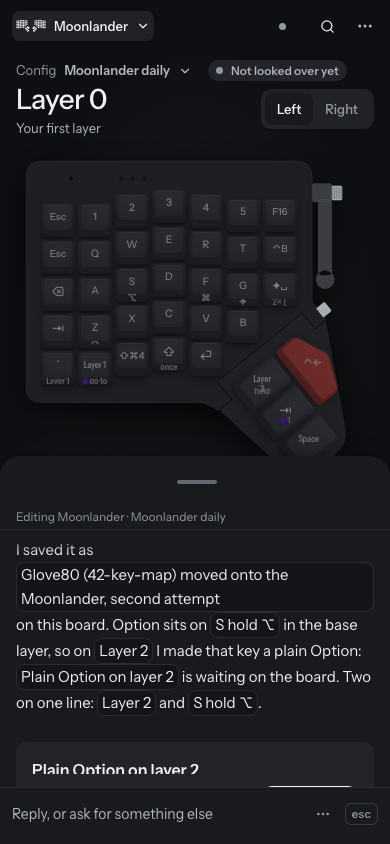
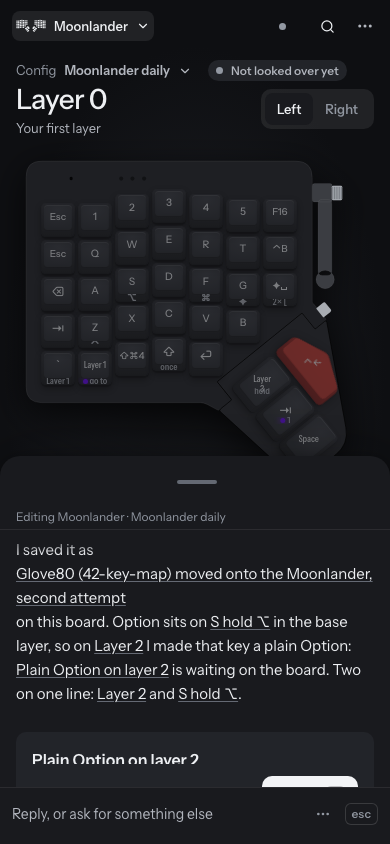
docs: recapture the reply references as links
The captures and figures for the link look: no box at rest, the sentence's colour and
font, a 1px underline, one line tall, the long config name wrapping inside the
paragraph, and the focus fill and ring the keyboard check activates. Records why the
gate checks the effect rather than `display: inline` (Chrome computes a button as an
inline-block) and corrects the blueprint wording from chip to link.

diff --git a/docs/research/ui-audit/c-reply-references/README.md b/docs/research/ui-audit/c-reply-references/README.md
@@ -1,33 +1,39 @@
 # A reply takes you to what it names
 
-Checked source: `e397c4b89b2a56a2bbf92bb2734cfbea26d055af`, tree `6fea9e9d8fae922a0b80f953e9f99869583b5e26`, on `86bd8f6` (v0.64.0), the C candidate. That commit is code and tests; this file and the captures are the documentation commit that follows it, which changes no code, so the code under test is byte-identical to that tree. The app ran from `C-shots.ts`, kept beside this run's ledger rather than in the repository: the real server routes and SQLite in a scratch data directory, with a scripted Anthropic client behind the real SDK, and routes that refuse builds and flashes. No model was called, no network was used, no keyboard was touched. The config is the checked-in Oryx Moonlander fixture (`test/fixtures/oryx/synchronized`); the second config the reply names is a plain copy of it with a long name.
+Checked source: `d82fe94a2b5144854b27733f20a70f4bca2a73e2`, tree `cd68f1cf1d858a1a64ad4b6403141a2e0bc02017`, on `6454cc4` (v0.64.0 plus a docs-only commit) — the last commit of this stage that changes code: the marker contract, its tests and the link styling review asked for. The documentation commit that follows changes no code, so the code under test is byte-identical to that tree. The app ran from `C-shots.ts`, kept beside this run's ledger rather than in the repository: the real server routes and SQLite in a scratch data directory, with a scripted Anthropic client behind the real SDK, and routes that refuse builds and flashes. No model was called, no network was used, no keyboard was touched. The config is the checked-in Oryx Moonlander fixture (`test/fixtures/oryx/synchronized`); the second config the reply names is a plain copy of it with a long name.
 
 The reply was written by that scripted model in a real chat turn, so the conversation, its proposal and its stored text are what `keyloom chat` and the page would see:
 
-> I saved it as **Glove80 (42-key-map) moved onto the Moonlander, second attempt** on this board. Option sits on **S hold ⌥** in the base layer, so on **Layer 2** I made that key a plain Option: **Plain Option on layer 2** is waiting on the board. Two on one line: **Layer 2** and **S hold ⌥**.
+> I saved it as Glove80 (42-key-map) moved onto the Moonlander, second attempt on this board. Option sits on S hold ⌥ in the base layer, so on Layer 2 I made that key a plain Option: Plain Option on layer 2 is waiting on the board. Two on one line: Layer 2 and S hold ⌥.
 
-Bold here is a chip on screen: the four markers are `{config:lay_…}`, `{key:layer-0:30}`, `{layer:layer-2}` and `{proposal:cs_…}`, and each one drew the name the page resolved. No marker text reaches the page.
+Underlined here is a reference on screen: the four markers are `{config:lay_…}`, `{key:layer-0:30}`, `{layer:layer-2}` and `{proposal:cs_…}`, and each one drew the name the page resolved. No marker text reaches the page.
+
+## A reference reads as a link inside the sentence
+
+A name the page resolved is not a box. At rest it has no border, no fill and no padding, it takes the paragraph's own colour and font, and it carries a 1px underline set 2px below the text — so a sentence that names a config, a layer, a key and a proposal still reads as a sentence, and a long config name is a long underlined name rather than a grey block. Hover and focus give it the quiet fill (`--color-accent-bg`) and the underline takes the text colour; focus keeps the visible ring the rest of the app uses (`2px` `--color-focus`, offset `2px`). The element stays a `<button>`, so Tab reaches it and Enter activates it with no code of its own, and it keeps its `title`.
+
+A `<button>` is computed as an atomic inline by Chrome even with `display: inline` (a bare page with the same declarations reports `inline-block` on Chrome 156, which is the HTML rendering model for the element, not a cascade failure). The gate therefore checks what has to be true rather than the keyword: the name is an inline-level box with no box of its own, exactly one line tall for a short name, underlined, in the sentence's colour — and a long one wraps inside the paragraph.
 
 ## Both themes fit desktop and phone viewports
 
 | Viewport in CSS pixels | Theme | Evidence |
 |---|---|---|
-| 1440 × 900 | Light | [The reply and its chips](reply-light-1440x900.png), [after Enter on the key chip](key-pulse-light-1440x900.png), [after Enter on the config chip](config-opened-light-1440x900.png) |
-| 1440 × 900 | Dark | [The reply and its chips](reply-dark-1440x900.png) |
-| 390 × 844 | Light | [The reply and its chips](reply-light-390x844.png), [after Enter on the key chip](key-pulse-light-390x844.png), [after Enter on the config chip](config-opened-light-390x844.png) |
-| 390 × 844 | Dark | [The reply and its chips](reply-dark-390x844.png), [after Enter on the key chip](key-pulse-dark-390x844.png), [after Enter on the config chip](config-opened-dark-390x844.png) |
+| 1440 × 900 | Light | [The reply and its references](reply-light-1440x900.png), [after Enter on the key reference](key-pulse-light-1440x900.png), [after Enter on the config reference](config-opened-light-1440x900.png) |
+| 1440 × 900 | Dark | [The reply and its references](reply-dark-1440x900.png) |
+| 390 × 844 | Light | [The reply and its references](reply-light-390x844.png), [after Enter on the key reference](key-pulse-light-390x844.png), [after Enter on the config reference](config-opened-light-390x844.png) |
+| 390 × 844 | Dark | [The reply and its references](reply-dark-390x844.png), [after Enter on the key reference](key-pulse-dark-390x844.png), [after Enter on the config reference](config-opened-dark-390x844.png) |
 
 Captures are page captures from headless Chrome at device pixel ratio 1, with no browser chrome and no resizing. The phone shot is the chat bottom sheet rested on the reply rather than on the proposal card below it, because the reply is what this gate is about.
 
-The chips sit inside the sentence as inline boxes, not as a row of buttons: they share the paragraph's 24-pixel line, they wrap with it, and they break a long name instead of widening the reply. Measured facts (`capture-notes.txt`): the page does not scroll sideways at either width (`scrollWidth == clientWidth`), the prose column is 428 pixels on the desktop and 358 on the phone, a one-line chip is 26 pixels tall against the 24-pixel line, and the 62-character config name is one chip 50 pixels tall wrapping over two lines. Two chips share a line at both widths ("Two on one line: Layer 2 and S hold ⌥").
+Measured facts (`capture-notes.txt`, identical at both widths and themes): the page does not scroll sideways (`scrollWidth == clientWidth`); the prose column is 428 pixels on the desktop and 358 on the phone against a 24-pixel line; all six references are inline-level with `0` padding, `0` border, a transparent fill and the paragraph's own colour; a short name is 24 pixels tall, exactly the line, so a reference never adds a line of its own; the 62-character config name is 428 (358) pixels wide and 48 pixels tall, two lines, with its right edge exactly at the paragraph's; and four names share a line on the desktop, two on the phone ("Two on one line: Layer 2 and S hold ⌥").
 
-The card below the reply is the existing proposal card, unchanged; the reply's own chip for it is in the sentence above. This gate is [the design concept](../../../blueprint/23-design-concept.md) plus [the screenshot gate](../../../blueprint/18-visual-design.md#how-a-rung-proves-it-looks-good); no new visual system was added — the chip borrows the card surface's panel and hairline.
+The card below the reply is the existing proposal card, unchanged; the reply's own reference to it is in the sentence above. This gate is [the design concept](../../../blueprint/23-design-concept.md) plus [the screenshot gate](../../../blueprint/18-visual-design.md#how-a-rung-proves-it-looks-good); no new visual system was added — the link borrows the app's existing underline, fill and focus ring.
 
-## Tab reaches every chip, and Enter does what the chip says
+## Tab reaches every reference, and Enter does what it says
 
-From the conversation log, Tab walks the chips in reading order and each takes the focus ring visible in the captures: config, key, layer, proposal (the second pair of layer and key chips repeats). With the chip focused, Enter activated it, in all four viewport and theme combinations:
+From the conversation log, Tab walks the references in reading order and each takes the focus fill and ring visible in the captures: config, key, layer, proposal (the second pair of layer and key references repeats). With the reference focused, Enter activated it, in all four viewport and theme combinations:
 
-| Chip | Before Enter | After Enter |
+| Reference | Before Enter | After Enter |
 |---|---|---|
 | `{layer:layer-2}` | the layer strip on Layer 0 | the strip on Layer 2 |
 | `{key:layer-0:30}` | the strip on Layer 2 | the strip on Layer 0, and the S key ringed on the board (1400 ms) |
@@ -36,7 +42,11 @@ From the conversation log, Tab walks the chips in reading order and each takes t
 
 Chrome's DevTools protocol only activates a button when the Enter keystroke carries its character; without it the keydown arrives and no click follows, which is a property of the harness, not of the page (the same finding the copy card's gate recorded for `<summary>`).
 
-The config shot is the last one taken, because the page moves: the reply travels with the thread and is shown read-only under "Earlier, about Moonlander daily on your Moonlander". There the config marker is still live and the layer, key and proposal markers read as words ("that layer", "that key", "that proposal"), because those belong to a layout that is not on screen; the chip for the other config is the one worth keeping live in a carried thread.
+The config shot is the last one taken, because the page moves: the reply travels with the thread and is shown read-only under "Earlier, about Moonlander daily on your Moonlander". There the config reference is still live and the layer, key and proposal references read as words ("that layer", "that key", "that proposal"), because those belong to a layout that is not on screen; the reference to the other config is the one worth keeping live in a carried thread.
+
+## What the run fails on
+
+Every capture run checks thirteen things in each of the four combinations and exits non-zero if any fails: six names drawn; an inline-level box with no padding, border or fill; the paragraph's colour; one line tall for a short name; a 1px underline; the long name wrapping inside the paragraph; two names sharing a line; no sideways scroll; Tab reaching all four kinds; and each of the four activations above.
 
 ## What this does not prove
 

diff --git a/docs/blueprint/14-decision-log.md b/docs/blueprint/14-decision-log.md
@@ -2188,10 +2188,10 @@ The reply that made a config told BK where to find it, and a later reply that na
 
 - **One family, four kinds, ids not names.** `{config:<config id>}`, `{proposal:<change set id>}`, `{layer:<layer id>}`, `{key:<layer id>:<position>}`. The marker carries an id and never a name, a URL or a scheme, so nothing the model writes can become a link, an anchor, HTML, JSX or CSS (D-404). Grammar and the reading rule are one pure module, `src/layout/references.ts`: three layers read it and none of them may import another's folder. A string that is not a marker — an unknown kind, a name, a key with no position, a brace that never closes, an id longer than any real one — stays exactly as the model wrote it.
 - **The stored text keeps the markers.** Nothing rewrites a stored message (`src/persistence/conversations.ts`); no sanitiser pass runs over assistant text. Each client parses where it renders, which is why the marker stays short: an older client shows the marker itself rather than losing the sentence.
-- **Resolved by the client, with a words fallback.** A marker that names something live becomes the thing's own name; one that names nothing becomes plain words, never a dead chip. Where no name exists the words are the id the marker carried (a deleted config, a proposal this conversation does not hold, a layer gone after a head change), and a proposal that is no longer waiting reads as its title with where it stands (`applied`, `superseded`, `rejected`). A key whose position is past the layer's keys reads `key 73 on Base`, as the review's cleaner already wrote it.
-- **Each kind does one thing, through a seam that exists.** Config → the config opener that already carries the thread (D-317, D-336); the config already on screen reads as words, so the page never reloads onto itself. Proposal → the reply's own card, or the conversation's, pinned on the board (D-452). Layer → the layer switch the layer strip uses, which keeps an open key's draft (D-317). Key → that layer switch and then the pulse a real key press lights, so the key is found in place; the key panel does not open and the composer's selection does not change. A chip only exists when its action does.
+- **Resolved by the client, with a words fallback.** A marker that names something live becomes the thing's own name; one that names nothing becomes plain words, never a dead link. Where no name exists the words are the id the marker carried (a deleted config, a proposal this conversation does not hold, a layer gone after a head change), and a proposal that is no longer waiting reads as its title with where it stands (`applied`, `superseded`, `rejected`). A key whose position is past the layer's keys reads `key 73 on Base`, as the review's cleaner already wrote it.
+- **Each kind does one thing, through a seam that exists.** Config → the config opener that already carries the thread (D-317, D-336); the config already on screen reads as words, so the page never reloads onto itself. Proposal → the reply's own card, or the conversation's, pinned on the board (D-452). Layer → the layer switch the layer strip uses, which keeps an open key's draft (D-317). Key → that layer switch and then the pulse a real key press lights, so the key is found in place; the key panel does not open and the composer's selection does not change. A name is only a link when its action exists.
 - **A carried read-only thread keeps only its config marker live.** Its layers, keys and proposals belong to a layout that is not on screen: pinning one would preview another config's change on this board. Opening a config it names is exactly what the thread's config cards already offer. Those markers read as words ("that layer", "that key", "that proposal") rather than as ids, because they name things that exist and the page simply cannot draw them; a thread handed back to the config it is about (D-317 keeps `from`) resolves everything again.
-- **Markdown-lite grows one inline kind.** `src/web/chat/markdown.ts` parses `reference` after inline code, so a marker in backticks stays literal, and bold keeps a marker inside it as a reference. The component builds a `<button>`, never an `<a href>` and never `dangerouslySetInnerHTML`, and the chip sits inside the sentence as an inline box that wraps: two markers on one line at phone width and a long config name break like words.
+- **Markdown-lite grows one inline kind.** `src/web/chat/markdown.ts` parses `reference` after inline code, so a marker in backticks stays literal, and bold keeps a marker inside it as a reference. The component builds a `<button>`, never an `<a href>` and never `dangerouslySetInnerHTML`, and the name is drawn as a link inside the sentence: no border, fill or padding at rest, the sentence's own colour and font, a 1px underline, and the quiet fill plus the visible ring on hover and focus. It wraps like a word, so two names share a line at phone width and a long config name breaks inside the paragraph. Review corrected the first build, which drew a bordered chip per name: four of them in one sentence read as a form. A `<button>` is computed as an inline-block by Chrome even with `display: inline` (the HTML rendering model for the element), so what the screenshot gate checks is the effect — inline-level, no box of its own, one line tall, wrapping inside the paragraph — not the keyword. Labels, actions and fallbacks are unchanged.
 - **The terminal resolves and lists the routes.** `keyloom chat` writes the name on the stream and holds only an open `{` (at most 64 characters; an unclosed brace is printed as it came; a marker split across deltas reads once). After the reply, one line per reference that has a command — `to open it: keyloom config use <id>`, `to review it: keyloom change show <id>` — and nothing for a layer or a key, because the board is their surface and a terminal has nothing to run. Lookups are the ones that exist: the config list, the conversation's change sets, the head layout. `--format json` keeps `text` verbatim, markers included: a machine reader can resolve them and the stored reply is the same text.
 - **The prompt teaches four forms, briefly.** Config and layer ids from `list_layouts`/`get_layout`, positions from `get_layout`/`find_function`, a proposal's id from the `propose_changes` result or the conversation; write the marker where the name belongs and keep the noun; a marker naming nothing reads as words; never a URL, a link or HTML.
 - **Screens stay out.** History, the typing lab and Decisions have no marker, no client-intent protocol and no acknowledgement: rung 28's typed client intents (29) are a later stage, and this decision adds no wire field, no migration and no server behaviour.

diff --git a/docs/blueprint/28-agent-experience.md b/docs/blueprint/28-agent-experience.md
@@ -142,7 +142,7 @@ Options have proper labels and focus states. Recommendation is an explicit field
 | Cross-keyboard transfer | Source -> destination, mapped/skipped/uncertain items, loss explanations | Inspect source or target; resolve a target key in place |
 | Keyboard collection | Compact rows with silhouettes, configs and real connection/sync states | Open the selected board without applying anything |
 | Where a function lives | Key chips and layer-access path | Reveal and highlight the actual keys |
-| A config, proposal, layer or key a reply names | The thing's own name as a chip inside the sentence (D-468) | Opens the config with the thread, pins the proposal, shows the layer, pulses the key in its layer |
+| A config, proposal, layer or key a reply names | The thing's own name as a link inside the sentence (D-468) | Opens the config with the thread, pins the proposal, shows the layer, pulses the key in its layer |
 | Version or config comparison | Existing diff-on-board plus named non-key changes | Restore through the normal preview path |
 | Typing findings | Per-finger counts and evidence-backed suggestions | Existing lab findings only; no recorded text to the model |
 | Build or sync | Current step, device target and verification result | The existing sync engine, not invented percentages |
@@ -153,7 +153,7 @@ A config the agent makes (`put_config`, `create_config`) is the one result built
 
 The model supplies content and references, not HTML, JSX, CSS or runnable components. Large results show a summary and an inspectable list with counts. Unsupported features remain visible even if some keys transferred successfully (D-404).
 
-A reply that names a config, a proposal, a layer or a key carries a typed marker instead of the name (D-468): `{config:<id>}`, `{proposal:<id>}`, `{layer:<layerId>}`, `{key:<layerId>:<position>}`. The marker holds an id, so the model cannot inject HTML or a scheme, and the reply's stored text keeps the marker. The page parses it where it renders, after inline code (so a marker in backticks stays literal), and draws a chip the reply's own sentence carries: the config's name opens that config with this conversation along (the one on screen is words, so the page never reloads onto itself), the proposal's title pins that card on the board (one that was applied, superseded or rejected reads as its title and status, with no pin), the layer's name shows that layer, and a key's legend shows its layer and pulses the key. A marker that names nothing the page still holds, and a layer or key whose layout changed under the reply, read as plain words rather than a dead chip. In a carried read-only thread only a config it names stays live; its layers, keys and proposals belong to another layout, so they read as "that layer", "that key", "that proposal" — unless the thread has come back to the config it is about, when everything resolves again. Screens (History, the typing lab, Decisions) have no marker: rung 28's typed client intents are a later stage, and the markers carry no acknowledgement. Captures, keyboard proof and measurements: [c-reply-references](../research/ui-audit/c-reply-references/README.md).
+A reply that names a config, a proposal, a layer or a key carries a typed marker instead of the name (D-468): `{config:<id>}`, `{proposal:<id>}`, `{layer:<layerId>}`, `{key:<layerId>:<position>}`. The marker holds an id, so the model cannot inject HTML or a scheme, and the reply's stored text keeps the marker. The page parses it where it renders, after inline code (so a marker in backticks stays literal), and draws that name as a link inside the sentence: the config's name opens that config with this conversation along (the one on screen is words, so the page never reloads onto itself), the proposal's title pins that card on the board (one that was applied, superseded or rejected reads as its title and status, with no pin), the layer's name shows that layer, and a key's legend shows its layer and pulses the key. A marker that names nothing the page still holds, and a layer or key whose layout changed under the reply, read as plain words rather than a dead link. In a carried read-only thread only a config it names stays live; its layers, keys and proposals belong to another layout, so they read as "that layer", "that key", "that proposal" — unless the thread has come back to the config it is about, when everything resolves again. Screens (History, the typing lab, Decisions) have no marker: rung 28's typed client intents are a later stage, and the markers carry no acknowledgement. Captures, keyboard proof and measurements: [c-reply-references](../research/ui-audit/c-reply-references/README.md).
 
 ## Motion supports activity and then stops
 

diff --git a/docs/blueprint/29-agent-app-control.md b/docs/blueprint/29-agent-app-control.md
@@ -87,7 +87,7 @@ The registry assigns one of these policies. Q32 must be resolved before mutating
 
 Applying to the active config may trigger already enabled auto-sync. The Apply card must say so before confirmation. Do not present it as a harmless local save. Editing an inactive config does not activate it. Preserve first-flash consent, exit-chord proof, typed-name deletion and firmware compatibility checks.
 
-The **Local view** row is now partly shipped without a typed client intent: a reply's reference marker (D-468) draws a chip that BK clicks, and the click opens the config with its thread, pins a proposal, shows a layer or pulses a key — the person acts, so there is no acknowledgement to report and nothing the model claims happened. What stays here is the rest of rung 28: History, the typing lab and Decisions opened by a typed intent with an acknowledgement, and an explicit unavailable-view result. Markers are not a competing protocol: they carry no intent, no acknowledgement and no client-side claim.
+The **Local view** row is now partly shipped without a typed client intent: a reply's reference marker (D-468) draws a link that BK clicks, and the click opens the config with its thread, pins a proposal, shows a layer or pulses a key — the person acts, so there is no acknowledgement to report and nothing the model claims happened. What stays here is the rest of rung 28: History, the typing lab and Decisions opened by a typed intent with an acknowledgement, and an explicit unavailable-view result. Markers are not a competing protocol: they carry no intent, no acknowledgement and no client-side claim.
 
 Use typed tools for coherent jobs rather than dozens of arbitrary mutations. Existing read/propose/map tools remain. New operations may use a schema-discriminated `prepare_action` over registry action IDs; it cannot name an unregistered handler. The model cannot invoke the confirmation endpoint or mint a user approval.
 

diff --git a/docs/blueprint/10-cli.md b/docs/blueprint/10-cli.md
@@ -305,4 +305,4 @@ to open it: keyloom config use lay_01M65JGHPMH04G6XWDXBKF9QR3
 to review it: keyloom change show cs_01M65JJX62REZ96VCR35FPNRD2
 ```
 
-`--format json` is unchanged: `text` is the reply the model wrote, markers included, because a machine reader can resolve them itself and the stored message is the same text. The web draws a chip for each marker that names something live ([28](28-agent-experience.md#results-use-app-owned-views-instead-of-prose-imitations)).
+`--format json` is unchanged: `text` is the reply the model wrote, markers included, because a machine reader can resolve them itself and the stored message is the same text. The web draws a link on each marker that names something live ([28](28-agent-experience.md#results-use-app-owned-views-instead-of-prose-imitations)).
